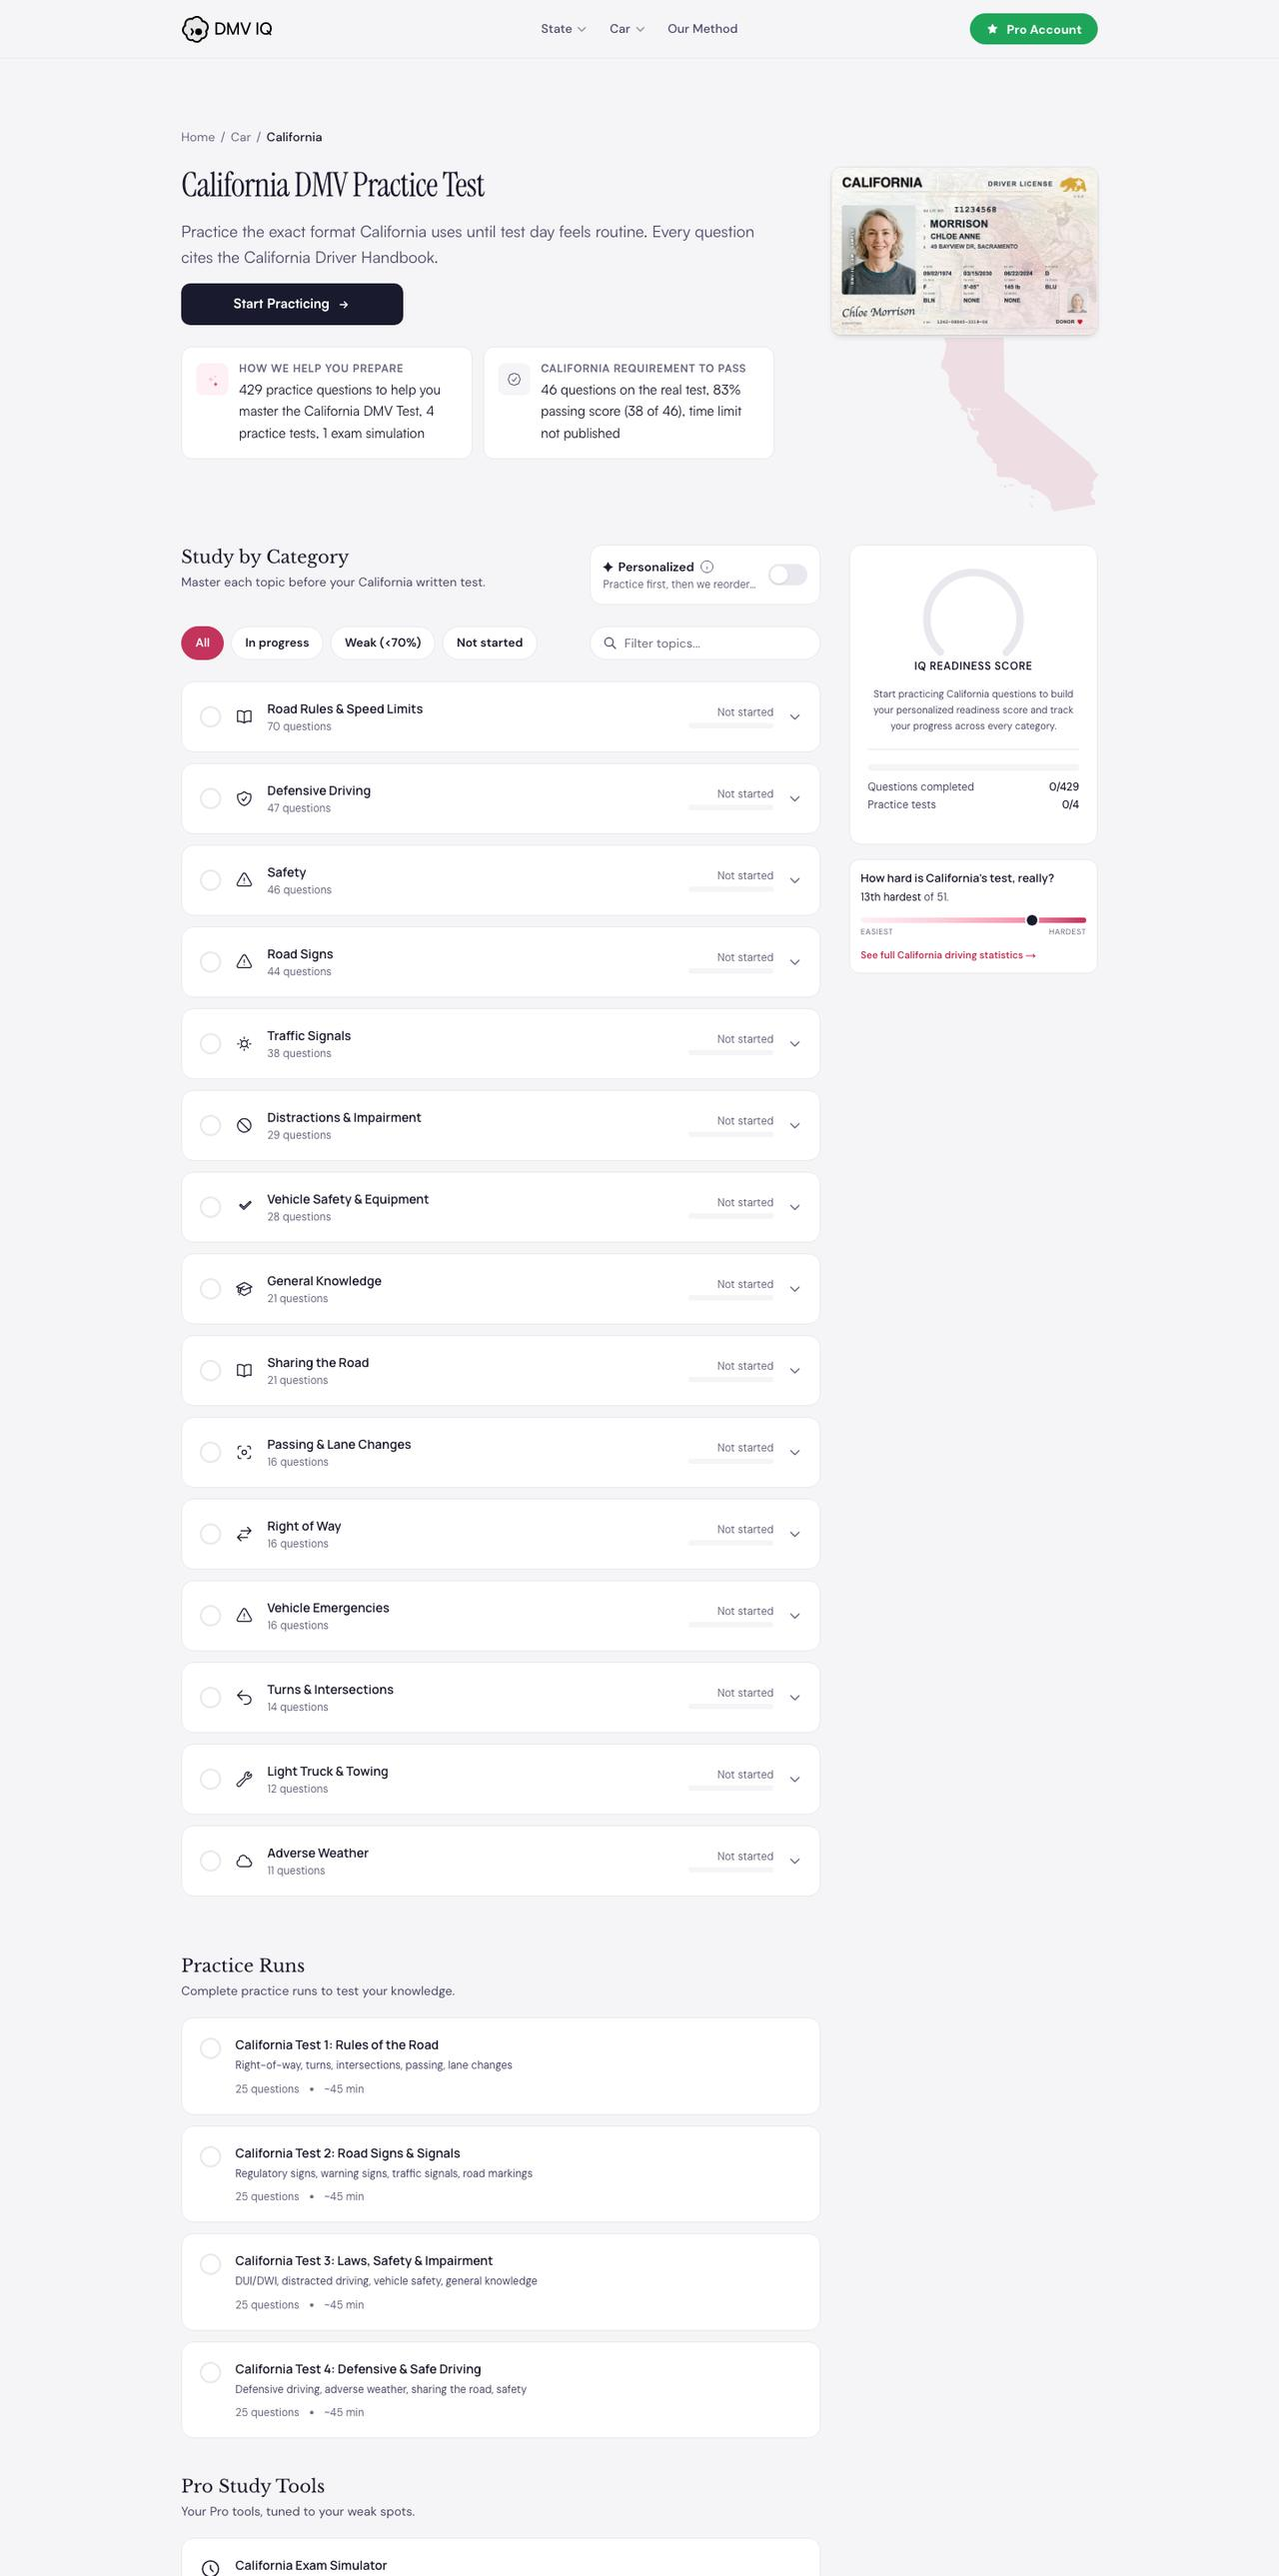
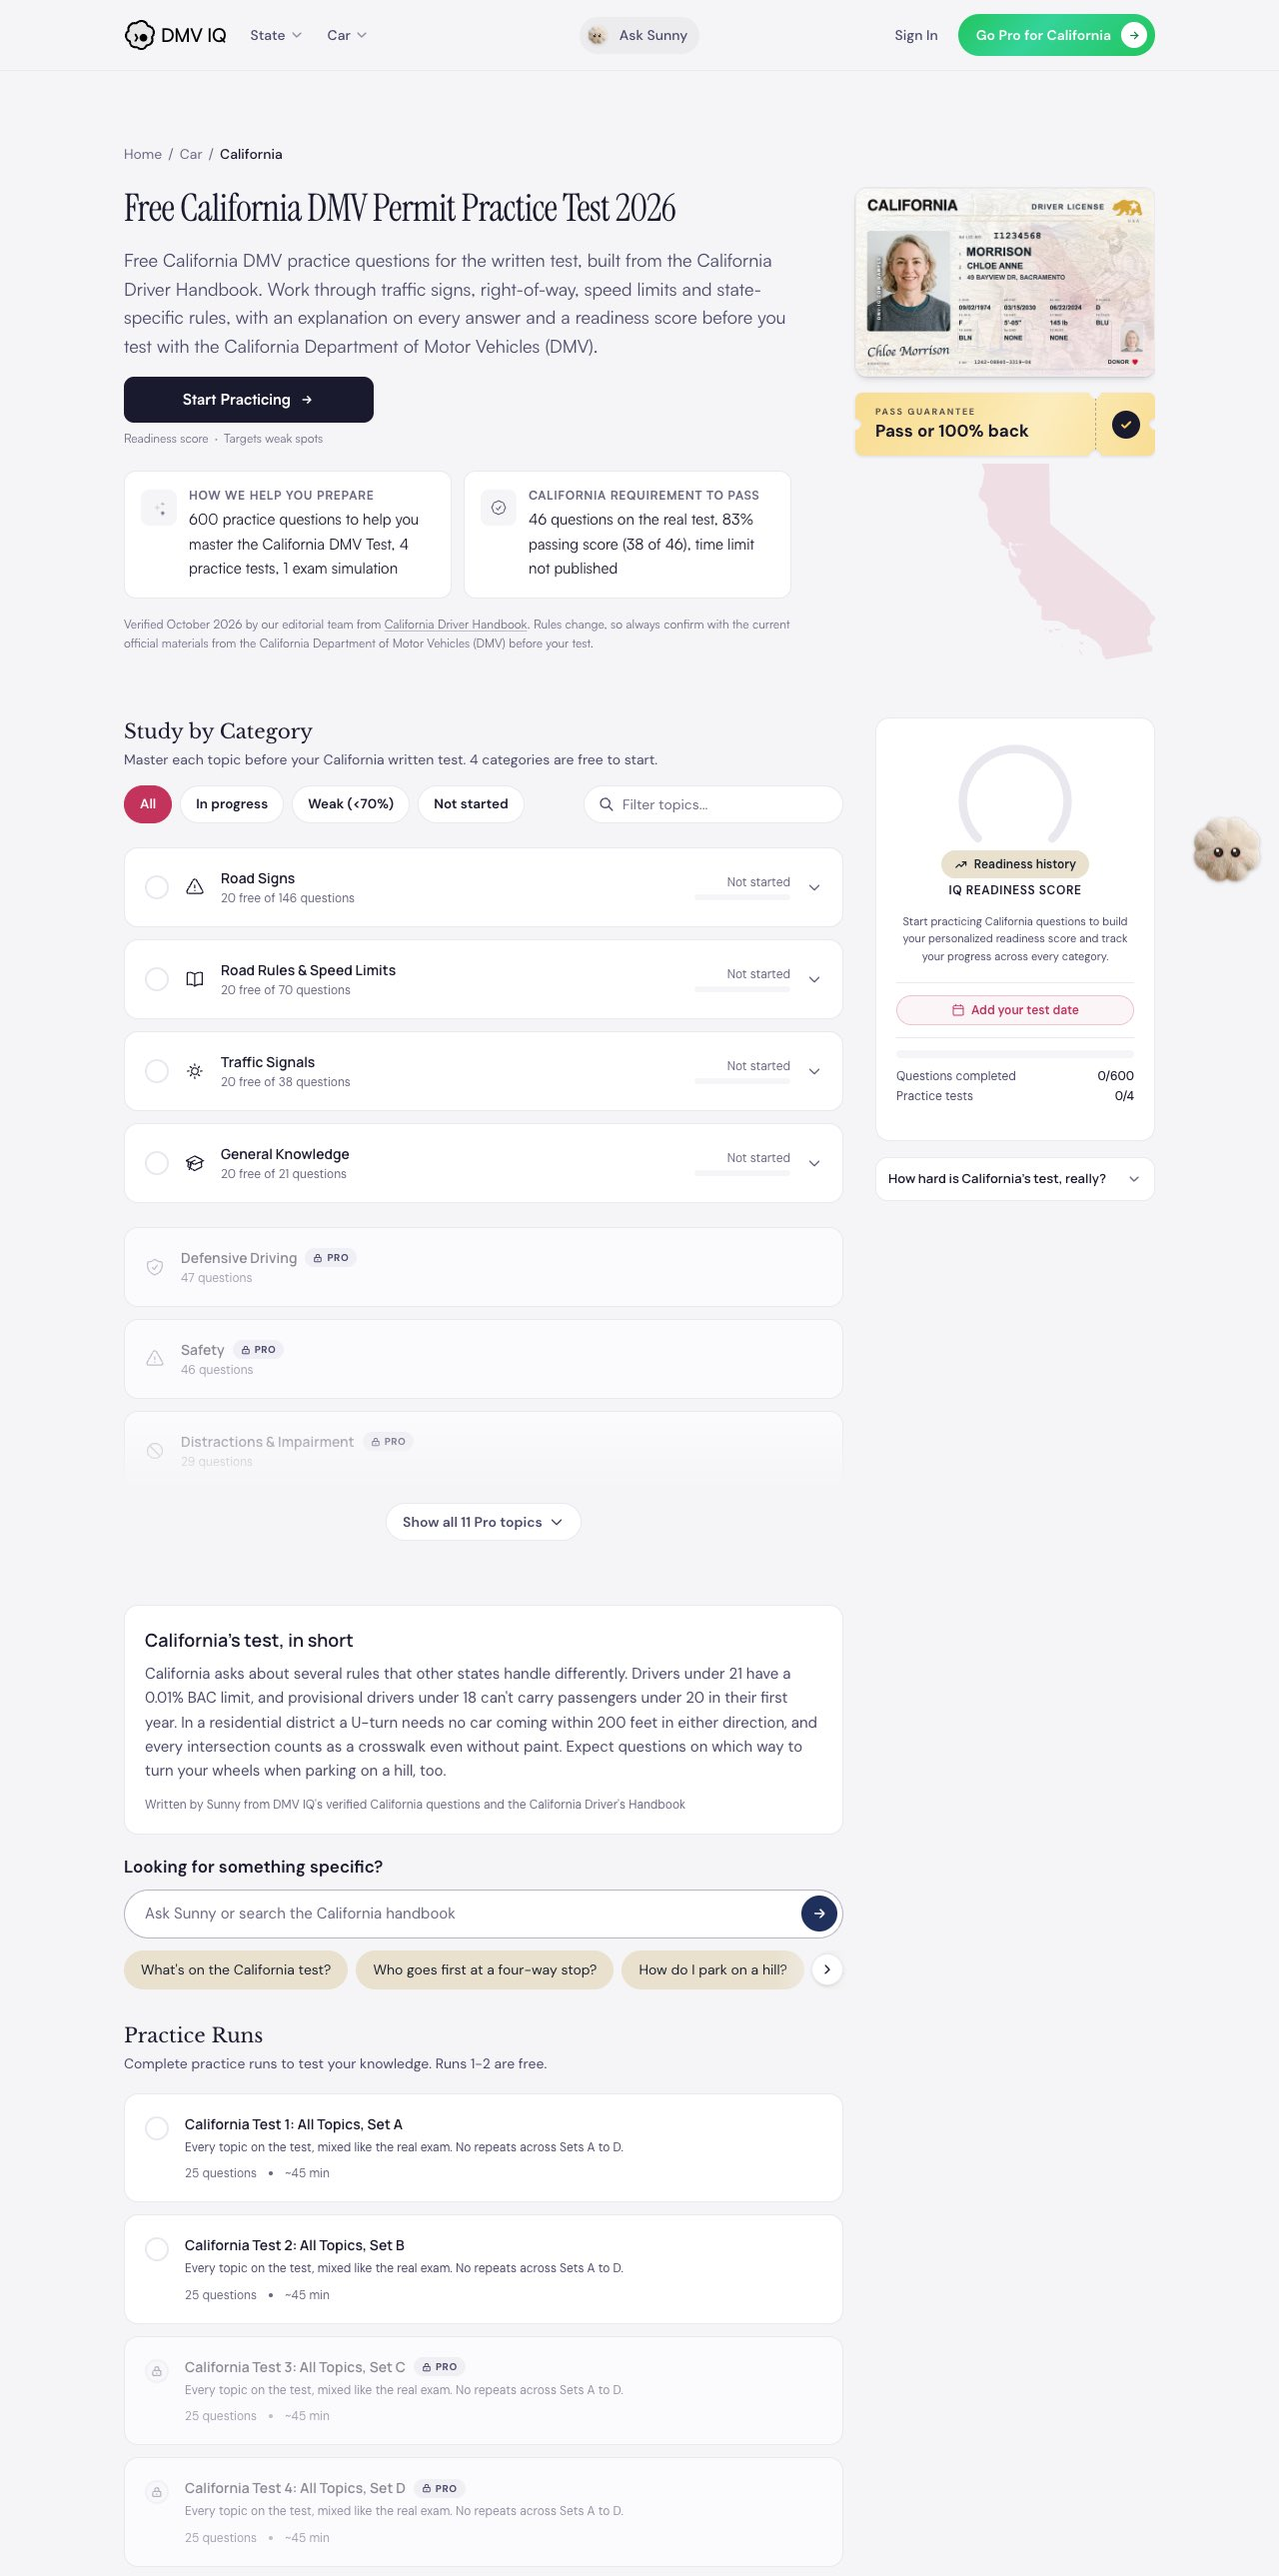
DMV IQ page: new site screenshot with Sunny, short Sunny section, current question counts

diff --git a/work/dmv-iq/index.html b/work/dmv-iq/index.html
@@ -65,16 +65,18 @@
       <div class="s-col">
         <div class="s-body">
 <p>There is no national driving test. Every state, and the District of Columbia, writes its own rulebook, sets its own passing score and asks its own questions. The pattern most prep tools follow is to ignore that, hand everyone the same generic quiz, and hope the overlap is big enough.</p>
-<p>We started from the opposite end. DMV IQ holds more than 7,500 practice questions across all fifty states and DC, and the details that differ from one state to the next are checked against each state&#x27;s own material.</p>
+<p>We started from the opposite end. DMV IQ holds more than 11,000 practice questions across all fifty states and DC, and the details that differ from one state to the next are checked against each state&#x27;s own material.</p>
 <blockquote class="pull">A permit test should be about the rules of your state, not anyone else&#x27;s.</blockquote>
 <h2>Signs first, then the road</h2>
 <p>Road signs are where many people lose easy points, so the app trains them visually: shapes, colors and meanings that stick through repetition rather than memorization. When the written test is behind you, step-by-step road test guides cover the part of the process that comes next.</p>
 <h2>Studying where it counts</h2>
 <p>Not all study time is equal. DMV IQ shows how ready you are as a simple percentage, then points you at the questions you are most likely to miss, so the hours you have go where they matter. Personalized study puts your weak spots first.</p>
+<h2>A coach next to every question</h2>
+<p>DMV IQ now includes Sunny, an AI study coach. Sunny explains why an answer is right, takes follow-up questions, and points to the page of your state&#x27;s handbook it is drawing from, so you can check it yourself. It works on the website and in the apps, in English, Spanish and Chinese.</p>
 <h2>Who it is for</h2>
 <p>DMV IQ is for first-time drivers and teenagers working toward a learner&#x27;s permit, new arrivals to the United States who need a state licence, adults returning to the road, and professionals preparing for a commercial driver&#x27;s licence.</p>
 <h2>What is inside</h2>
-<p>Three kinds of practice for all fifty states and the District of Columbia: car, motorcycle and CDL. In total there are more than 7,500 questions, built from 51 official state handbooks. The car permit test alone has more than 3,000 questions across 13 categories, and the motorcycle test has more than 1,600 across seven. States set their own rules for the written test, and most use between 20 and 50 questions with a passing score between 70 and 80 percent, so each state has its own set.</p>
+<p>Three kinds of practice for all fifty states and the District of Columbia: car, motorcycle and CDL. In total there are more than 11,000 questions, built from 51 official state handbooks. The car permit test alone has more than 6,600 questions across 15 topics, and the motorcycle test has more than 1,700. States set their own rules for the written test, and most use between 20 and 50 questions with a passing score between 70 and 80 percent, so each state has its own set.</p>
 <p>Alongside the practice sits a library of guides: road signs, what to bring to the DMV, how many times you can retake the test, and state-by-state comparisons such as the cost of becoming a driver and the share of uninsured drivers.</p>
         </div>
       </div>

diff --git a/_build/stories.py b/_build/stories.py
@@ -50,16 +50,18 @@ STORIES = {
  caption="DMV IQ, practice built around each state's own rules.",
  body=[
   ("p","There is no national driving test. Every state, and the District of Columbia, writes its own rulebook, sets its own passing score and asks its own questions. The pattern most prep tools follow is to ignore that, hand everyone the same generic quiz, and hope the overlap is big enough."),
-  ("p","We started from the opposite end. DMV IQ holds more than 7,500 practice questions across all fifty states and DC, and the details that differ from one state to the next are checked against each state's own material."),
+  ("p","We started from the opposite end. DMV IQ holds more than 11,000 practice questions across all fifty states and DC, and the details that differ from one state to the next are checked against each state's own material."),
   ("q","A permit test should be about the rules of your state, not anyone else's."),
   ("h","Signs first, then the road"),
   ("p","Road signs are where many people lose easy points, so the app trains them visually: shapes, colors and meanings that stick through repetition rather than memorization. When the written test is behind you, step-by-step road test guides cover the part of the process that comes next."),
   ("h","Studying where it counts"),
   ("p","Not all study time is equal. DMV IQ shows how ready you are as a simple percentage, then points you at the questions you are most likely to miss, so the hours you have go where they matter. Personalized study puts your weak spots first."),
+  ("h","A coach next to every question"),
+  ("p","DMV IQ now includes Sunny, an AI study coach. Sunny explains why an answer is right, takes follow-up questions, and points to the page of your state's handbook it is drawing from, so you can check it yourself. It works on the website and in the apps, in English, Spanish and Chinese."),
   ('h','Who it is for'),
   ('p',"DMV IQ is for first-time drivers and teenagers working toward a learner's permit, new arrivals to the United States who need a state licence, adults returning to the road, and professionals preparing for a commercial driver's licence."),
   ('h','What is inside'),
-  ('p','Three kinds of practice for all fifty states and the District of Columbia: car, motorcycle and CDL. In total there are more than 7,500 questions, built from 51 official state handbooks. The car permit test alone has more than 3,000 questions across 13 categories, and the motorcycle test has more than 1,600 across seven. States set their own rules for the written test, and most use between 20 and 50 questions with a passing score between 70 and 80 percent, so each state has its own set.'),
+  ('p','Three kinds of practice for all fifty states and the District of Columbia: car, motorcycle and CDL. In total there are more than 11,000 questions, built from 51 official state handbooks. The car permit test alone has more than 6,600 questions across 15 topics, and the motorcycle test has more than 1,700. States set their own rules for the written test, and most use between 20 and 50 questions with a passing score between 70 and 80 percent, so each state has its own set.'),
   ('p','Alongside the practice sits a library of guides: road signs, what to bring to the DMV, how many times you can retake the test, and state-by-state comparisons such as the cost of becoming a driver and the share of uninsured drivers.'),
  ]),
 "drive-iq-canada": dict(
